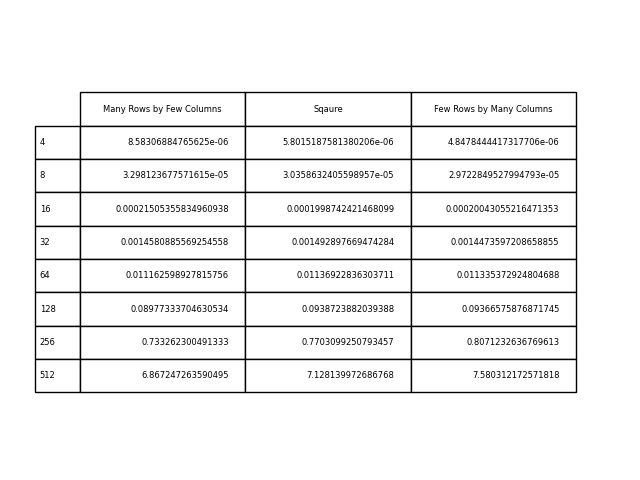
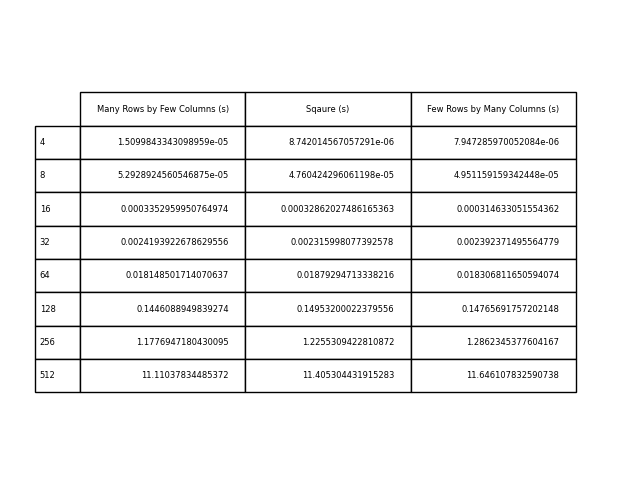
rerun q1

diff --git a/hw5/rmdup.py b/hw5/rmdup.py
@@ -98,37 +98,37 @@ def main():
         
     # The following part are comment for submitting
     # # Save plot
-    # plt.figure(figsize=(8, 6))
+    plt.figure(figsize=(8, 6))
 
-    # plt.plot(sizeArr, timeArr[0], label='Many Duplicates', color='blue')
-    # plt.plot(sizeArr, timeArr[1], label='Moderate Duplication', color='green')
-    # plt.plot(sizeArr, timeArr[2], label='Rare Duplication', color='red')
-    # plt.xlabel('Data Size')
-    # plt.ylabel('Runtime')
-    # plt.title('Remove Duplicates Runtime')
-    # plt.legend()
+    plt.plot(sizeArr, timeArr[0], label='Many Duplicates', color='blue')
+    plt.plot(sizeArr, timeArr[1], label='Moderate Duplication', color='green')
+    plt.plot(sizeArr, timeArr[2], label='Rare Duplication', color='red')
+    plt.xlabel('Data Size')
+    plt.ylabel('Runtime (second)')
+    plt.title('Remove Duplicates Runtime')
+    plt.legend()
 
-    # plt.savefig('q1.png')
+    plt.savefig('q1.png')
     
-    # fig, ax =plt.subplots(1, 1)
+    fig, ax =plt.subplots(1, 1)
 
-    # table = pd.DataFrame()
-    # table['Many Duplicates'] = timeArr[0]
-    # table['Moderate Duplication'] = timeArr[1]
-    # table['Rare Duplication'] = timeArr[2]
-    # table.index = rowname # type: ignore
+    table = pd.DataFrame()
+    table['Many Duplicates (s)'] = timeArr[0]
+    table['Moderate Duplication (s)'] = timeArr[1]
+    table['Rare Duplication (s)'] = timeArr[2]
+    table.index = rowname # type: ignore
         
-    # ax.axis('tight')
-    # ax.axis('off')
+    ax.axis('tight')
+    ax.axis('off')
 
-    # #plotting data
-    # table = ax.table(cellText = table.values,
-    #         colLabels = table.columns,
-    #         rowLabels = sizeArr,
-    #         loc="center")
-    # table.set_fontsize(14)
-    # table.scale(1,2)
-    # plt.savefig('q1_table.png')
+    #plotting data
+    table = ax.table(cellText = table.values,
+            colLabels = table.columns,
+            rowLabels = sizeArr,
+            loc="center")
+    table.set_fontsize(14)
+    table.scale(1,2)
+    plt.savefig('q1_table.png')
     return 0
 
 

diff --git a/hw5/matrixmult.py b/hw5/matrixmult.py
@@ -121,37 +121,37 @@ def main():
     
     # The following part are comment for submitting
     # # save plot
-    # plt.figure(figsize=(8, 6))
+    plt.figure(figsize=(8, 6))
 
-    # plt.plot(arrN, time[0], label='Many Rows by Few Columns', color='blue')
-    # plt.plot(arrN, time[1], label='Sqaure', color='green')
-    # plt.plot(arrN, time[2], label='Few Rows by Many Columns', color='red')
-    # plt.xlabel('N')
-    # plt.ylabel('Runtime')
-    # plt.title('Matrix Multiplication Runtime')
-    # plt.legend()
+    plt.plot(arrN, time[0], label='Many Rows by Few Columns', color='blue')
+    plt.plot(arrN, time[1], label='Sqaure', color='green')
+    plt.plot(arrN, time[2], label='Few Rows by Many Columns', color='red')
+    plt.xlabel('N')
+    plt.ylabel('Runtime (seconds)')
+    plt.title('Matrix Multiplication Runtime')
+    plt.legend()
 
-    # plt.savefig('q2.png')
+    plt.savefig('q2.png')
 
-    # fig, ax =plt.subplots(1, 1)
+    fig, ax =plt.subplots(1, 1)
 
-    # table = pd.DataFrame()
-    # table['Many Rows by Few Columns'] = time[0]
-    # table['Sqaure'] = time[1]
-    # table['Few Rows by Many Columns'] = time[2]
-    # table.index = rowname # type: ignore
+    table = pd.DataFrame()
+    table['Many Rows by Few Columns (s)'] = time[0]
+    table['Sqaure (s)'] = time[1]
+    table['Few Rows by Many Columns (s)'] = time[2]
+    table.index = rowname # type: ignore
         
-    # ax.axis('tight')
-    # ax.axis('off')
+    ax.axis('tight')
+    ax.axis('off')
 
-    # #plotting data
-    # table = ax.table(cellText = table.values,
-    #         colLabels = table.columns,
-    #         rowLabels = arrN,
-    #         loc="center")
-    # table.set_fontsize(14)
-    # table.scale(1,2)
-    # plt.savefig('q2_table.png')
+    #plotting data
+    table = ax.table(cellText = table.values,
+            colLabels = table.columns,
+            rowLabels = arrN,
+            loc="center")
+    table.set_fontsize(14)
+    table.scale(1,2)
+    plt.savefig('q2_table.png')
     return 0
 
 if __name__ == "__main__":
